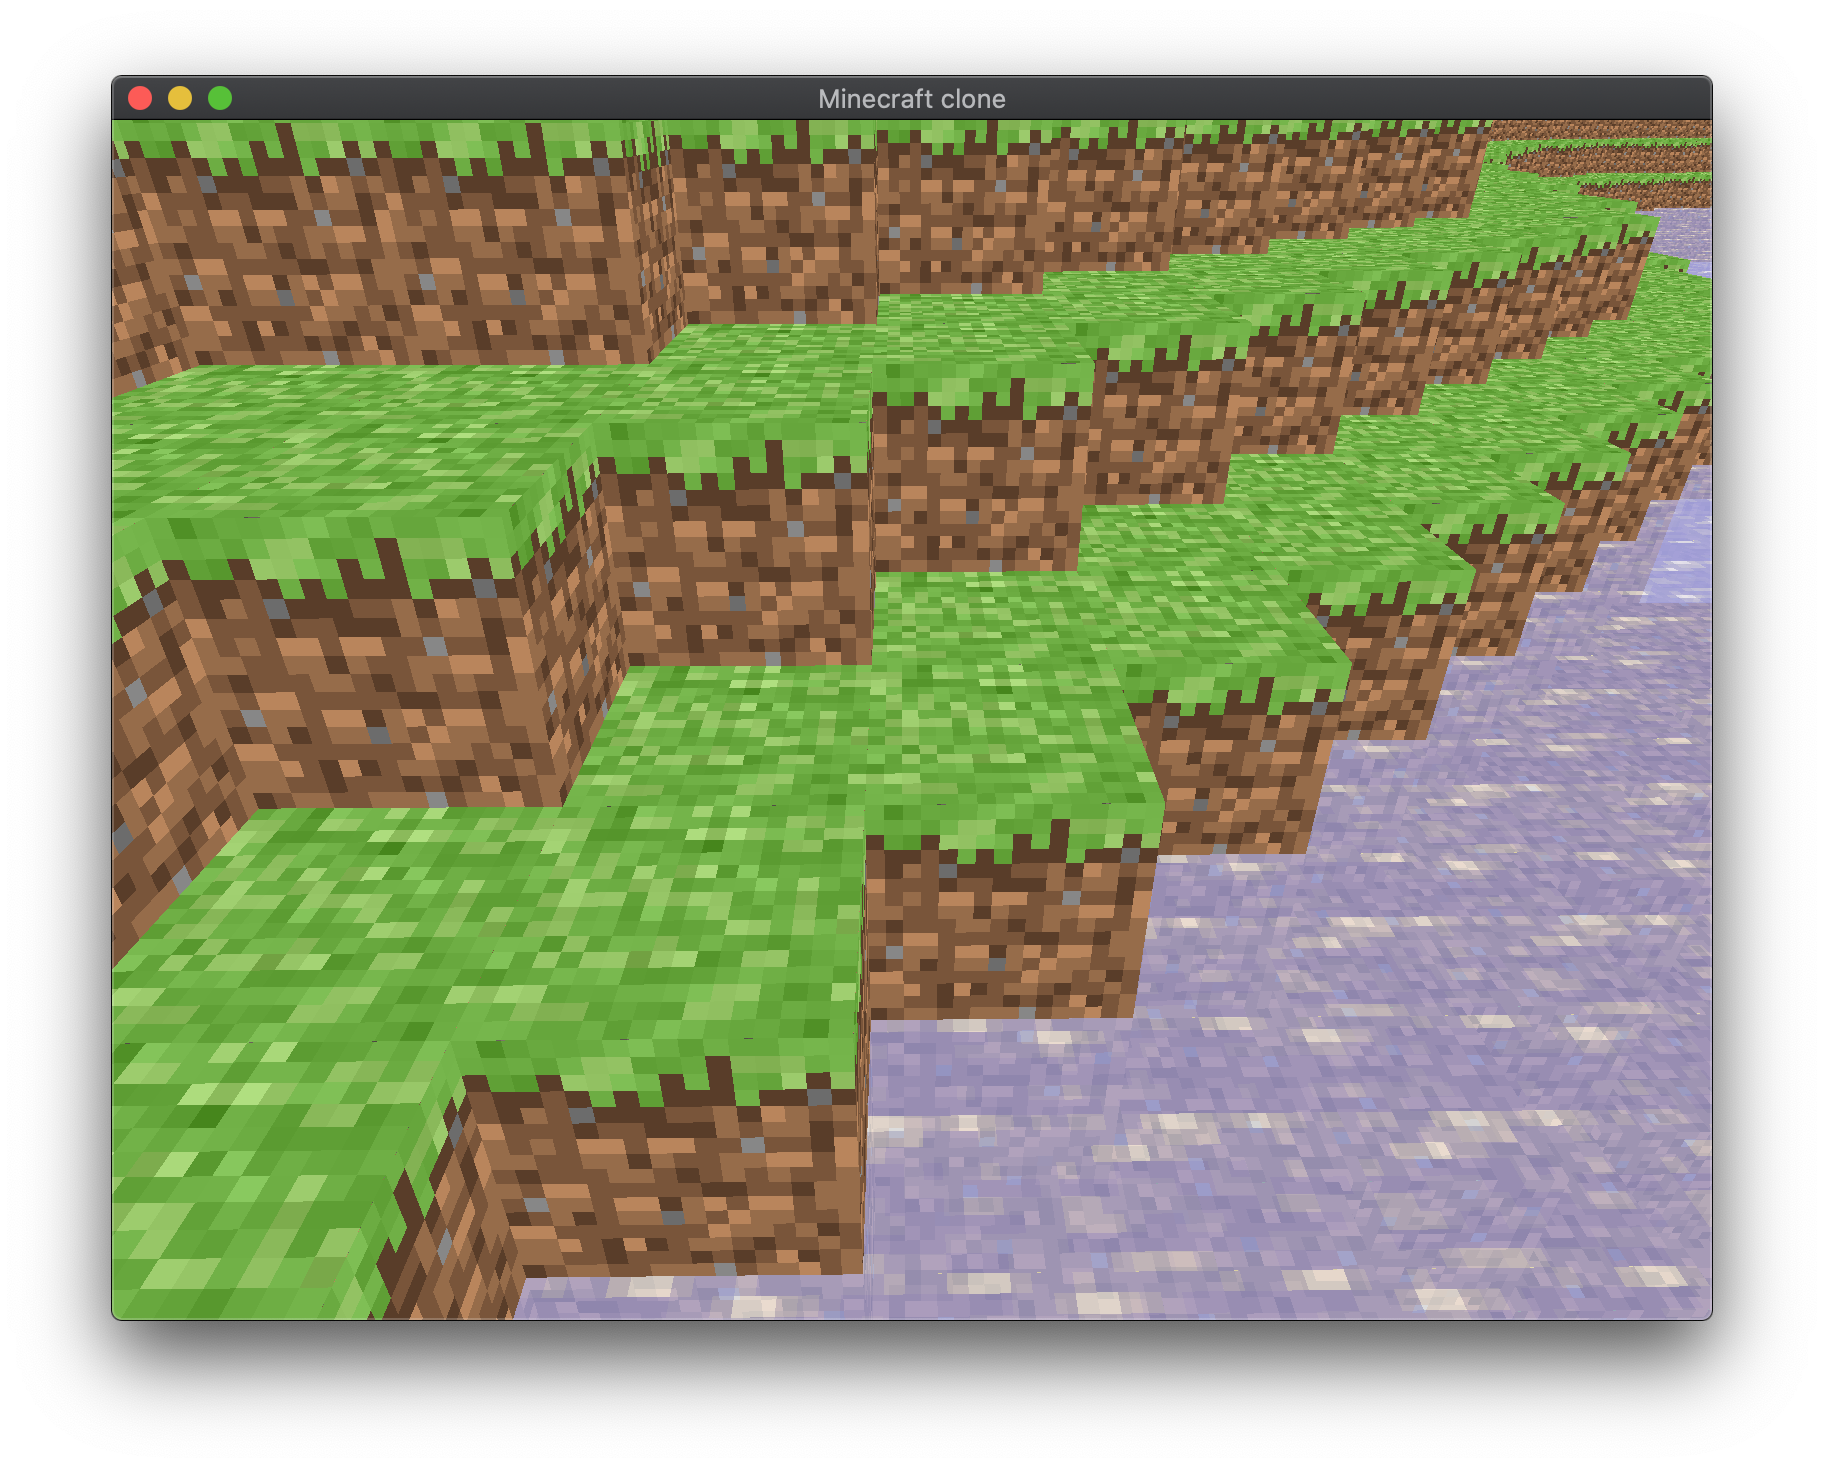
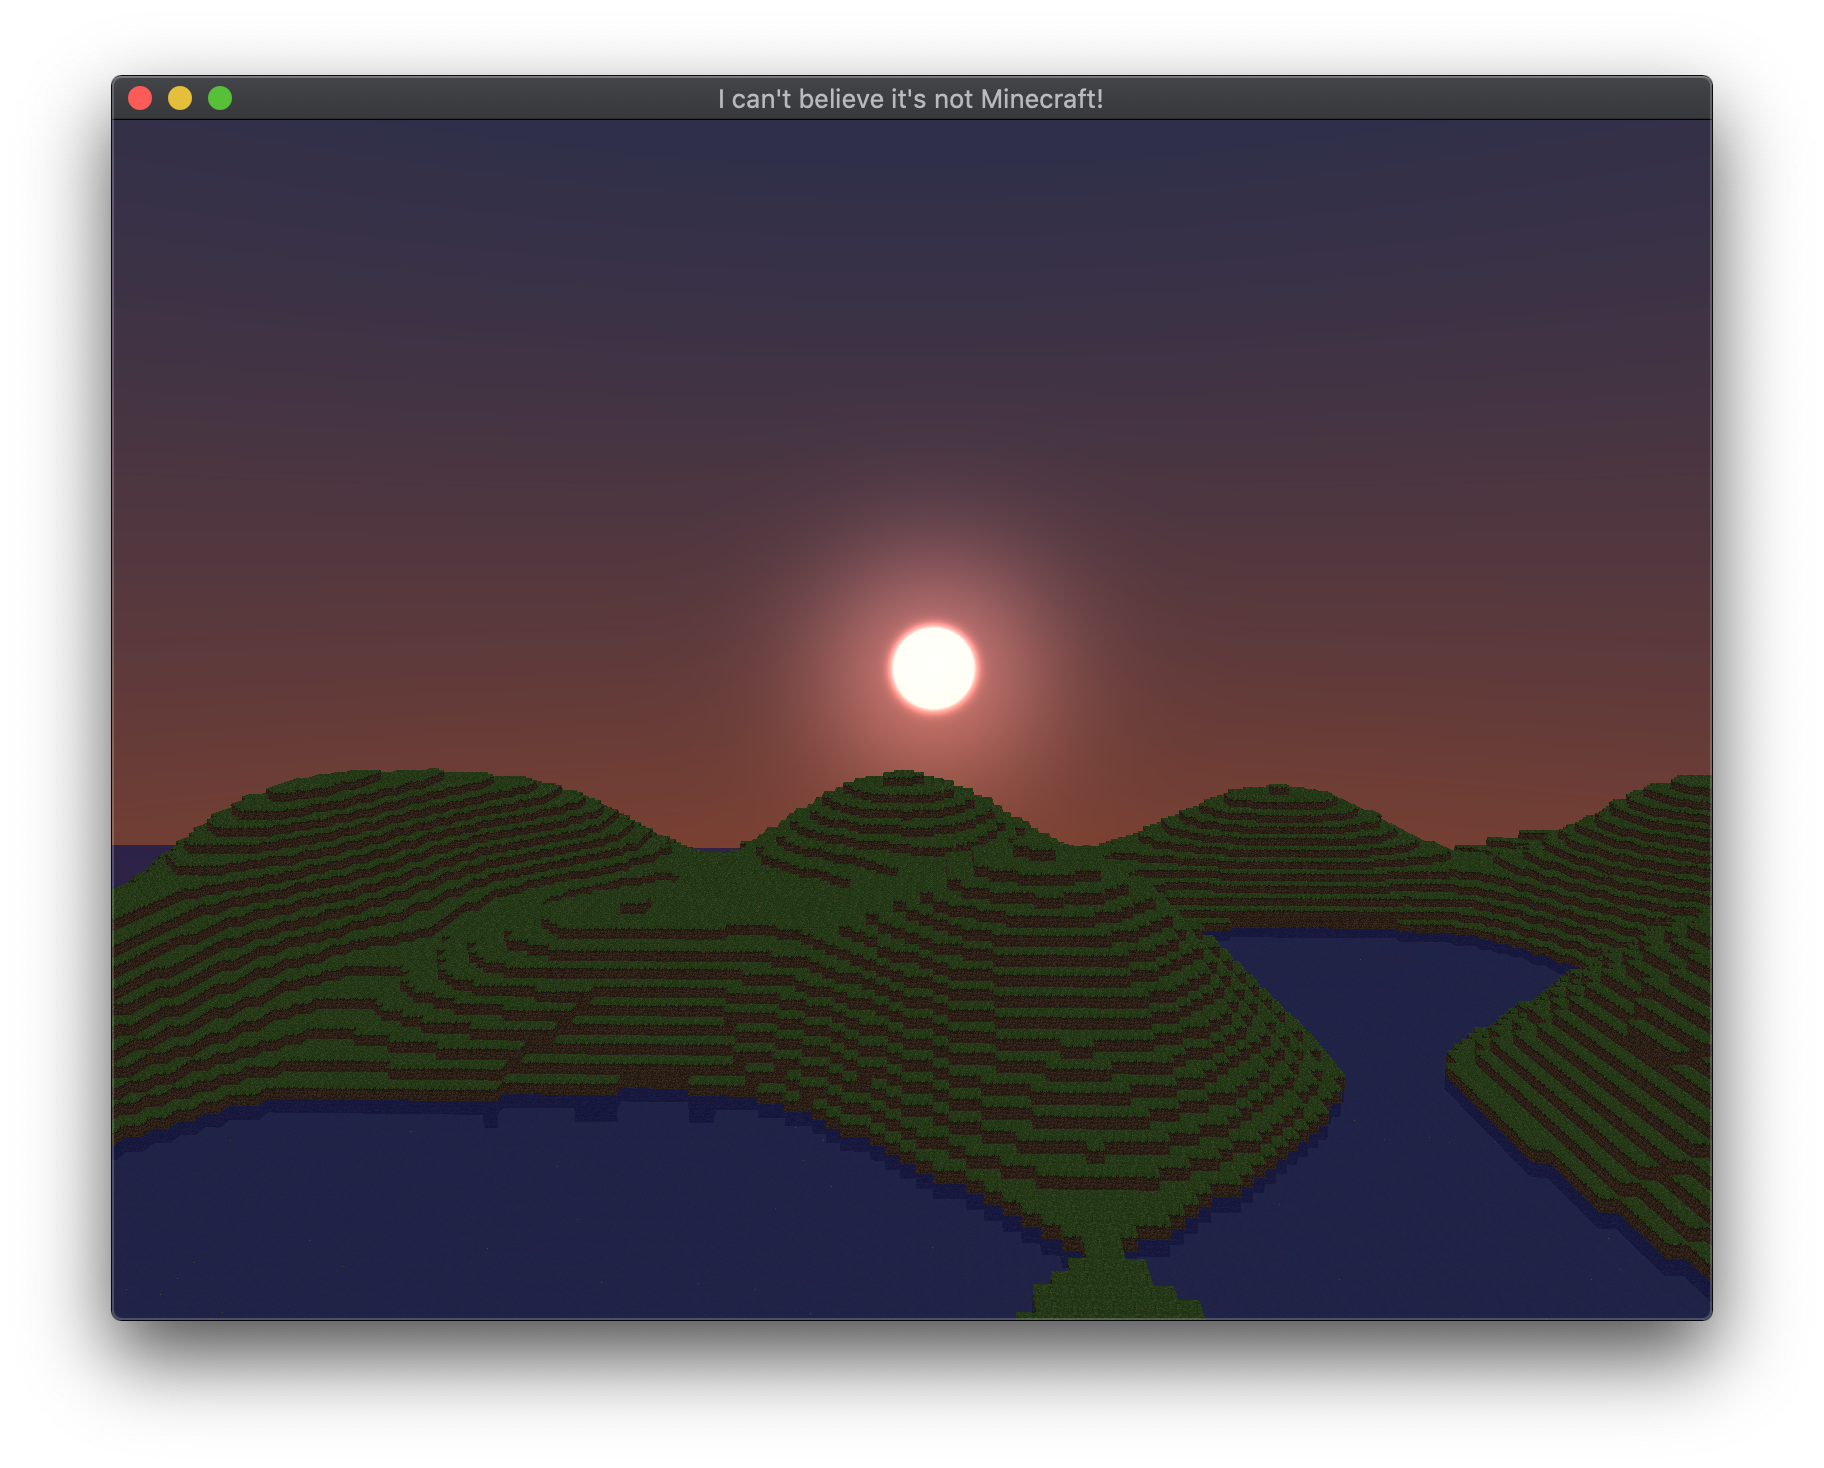
Day and night

diff --git a/src/world/block.cpp b/src/world/block.cpp
@@ -1,23 +1,36 @@
 #include "world/block.hpp"
+#include <utility>
 
 const bool Block::transparency_table[] = {false, false, false, false, false, true, true, false};
 
 Block::Block(Block::Type t) : type(t) {}
 
-std::vector<float> Block::getFace(Block::Face face) const {
+std::pair<std::vector<float>, std::vector<float>> Block::getFace(Block::Face face) const {
     switch (face) {
         case UP:
-            return std::vector<float>{0, 1, 0, 1, 1, 0, 1, 1, 1, 0, 1, 1};
+            return std::make_pair(
+                    std::vector<float>{0, 1, 0, 1, 1, 0, 1, 1, 1, 0, 1, 1},
+                    std::vector<float>{0, 1, 0, 0, 1, 0, 0, 1, 0, 0, 1, 0});
         case DOWN:
-            return std::vector<float>{0, 0, 1, 1, 0, 1, 1, 0, 0, 0, 0, 0};
+            return std::make_pair(
+                    std::vector<float>{0, 0, 1, 1, 0, 1, 1, 0, 0, 0, 0, 0},
+                    std::vector<float>{0, -1, 0, 0, -1, 0, 0, -1, 0, 0, -1, 0});
         case BACK:
-            return std::vector<float>{1, 0, 1, 0, 0, 1, 0, 1, 1, 1, 1, 1};
+            return std::make_pair(
+                    std::vector<float>{1, 0, 1, 0, 0, 1, 0, 1, 1, 1, 1, 1},
+                    std::vector<float>{0, 0, 1, 0, 0, 1, 0, 0, 1, 0, 0, 1});
         case FRONT:
-            return std::vector<float>{0, 0, 0, 1, 0, 0, 1, 1, 0, 0, 1, 0};
+            return std::make_pair(
+                    std::vector<float>{0, 0, 0, 1, 0, 0, 1, 1, 0, 0, 1, 0},
+                    std::vector<float>{0, 0, -1, 0, 0, -1, 0, 0, -1, 0, 0, -1});
         case RIGHT:
-            return std::vector<float>{1, 0, 0, 1, 0, 1, 1, 1, 1, 1, 1, 0};
+            return std::make_pair(
+                    std::vector<float>{1, 0, 0, 1, 0, 1, 1, 1, 1, 1, 1, 0},
+                    std::vector<float>{1, 0, 0, 1, 0, 0, 1, 0, 0, 1, 0, 0});
         case LEFT:
-            return std::vector<float>{0, 0, 1, 0, 0, 0, 0, 1, 0, 0, 1, 1};
+            return std::make_pair(
+                    std::vector<float>{0, 0, 1, 0, 0, 0, 0, 1, 0, 0, 1, 1},
+                    std::vector<float>{-1, 0, 0, -1, 0, 0, -1, 0, 0, -1, 0, 0});
         default:
             throw std::invalid_argument("Invalid block face!");
     }

diff --git a/src/rendering/mesh.cpp b/src/rendering/mesh.cpp
@@ -1,10 +1,12 @@
 #include "rendering/mesh.hpp"
 #include <algorithm>
 
-void QuadMesh::addQuad(const std::vector<float> &vs, Block::Type texId, Block::Face faceId) {
+void
+QuadMesh::addQuad(const std::vector<float> &vs, const std::vector<float> &ns, Block::Type texId, Block::Face faceId) {
     u_int offset = vertices.size() / 3;
 
     vertices.insert(vertices.end(), vs.cbegin(), vs.cend());
+    normals.insert(normals.end(), ns.cbegin(), ns.cend());
 
     for (u_int k : {0, 1, 2, 0, 2, 3}) {
         indices.push_back(k + offset);
@@ -27,6 +29,9 @@ void QuadMesh::operator+=(const QuadMesh &other) {
     // Copy vertices
     vertices.insert(vertices.end(), other.vertices.cbegin(), other.vertices.cend());
 
+    // Copy normals
+    normals.insert(normals.end(), other.normals.cbegin(), other.normals.cend());
+
     // Copy texture coordinates
     texCoords.insert(texCoords.end(), other.texCoords.cbegin(), other.texCoords.cend());
 
@@ -34,12 +39,6 @@ void QuadMesh::operator+=(const QuadMesh &other) {
                    [&offset](unsigned int ix) {
                        return ix + offset;
                    });
-}
-
-std::ostream &operator<<(std::ostream &out, const QuadMesh &mesh) {
-    out << "Quad Mesh with " << mesh.vertices.size() / 3 << " vertices, " << mesh.indices.size() << " indices and "
-        << mesh.texCoords.size() / 2 << " tex coords";
-    return out;
 }
 
 void InstanceMesh::addCube(float x, float y, float z, Block::Type texId, Block::Face faceId) {

diff --git a/src/world/chunk_sector.cpp b/src/world/chunk_sector.cpp
@@ -50,7 +50,8 @@ QuadMesh ChunkSector::getQuadMesh() const {
                     for (auto face = (Block::Face) 0; face < Block::FACES; face++) {
                         if (!faces[face] ||
                             (faces[face]->type != block->type && Block::transparency_table[faces[face]->type])) {
-                            std::vector<float> vectors = block->getFace(face);
+                            auto[vectors, normals] = block->getFace(face);
+
                             for (int j = 0; j <= 9; j += 3) {
                                 vectors[j] += static_cast<float>(x + x0);
                                 vectors[j + 1] += static_cast<float>(y);
@@ -58,9 +59,9 @@ QuadMesh ChunkSector::getQuadMesh() const {
                             }
 
                             if (Block::transparency_table[block->type]) {
-                                transparent.addQuad(vectors, block->type, face);
+                                transparent.addQuad(vectors, normals, block->type, face);
                             } else {
-                                opaque.addQuad(vectors, block->type, face);
+                                opaque.addQuad(vectors, normals, block->type, face);
                             }
                         }
                     }

diff --git a/src/views/renderers/QuadRenderer.cpp b/src/views/renderers/QuadRenderer.cpp
@@ -1,4 +1,3 @@
-#include <GLFW/glfw3.h>
 #include "utils/Log.hpp"
 #include "views/renderers/QuadRenderer.hpp"
 #include "models/Game.hpp"
@@ -14,7 +13,6 @@ QuadRenderer::QuadRenderer()
 
 void QuadRenderer::renderSync() {
     texture.use();
-
     glDrawElements(GL_TRIANGLES, bufferedElements, GL_UNSIGNED_INT, reinterpret_cast<GLvoid *>(0));
 }
 
@@ -26,6 +24,7 @@ void QuadRenderer::fillBuffersSync() {
     QuadMesh mesh = cs.getQuadMesh();
 
     vertices.fill(mesh.vertices);
+    normals.fill(mesh.normals);
     texCoords.fill(mesh.texCoords);
     indices.fill(mesh.indices);
 
@@ -34,6 +33,7 @@ void QuadRenderer::fillBuffersSync() {
 
 void QuadRenderer::bufferData() {
     vertices.bufferData();
+    normals.bufferData();
     texCoords.bufferData();
     indices.bufferData();
     bufferedElements = indices.size();

diff --git a/include/rendering/mesh.hpp b/include/rendering/mesh.hpp
@@ -5,14 +5,13 @@
 
 struct QuadMesh {
     std::vector<float> vertices;
+    std::vector<float> normals;
     std::vector<u_int> indices;
     std::vector<float> texCoords;
 
-    void addQuad(const std::vector<float> &vs, Block::Type texId, Block::Face faceId);
+    void addQuad(const std::vector<float> &vs, const std::vector<float> &ns, Block::Type texId, Block::Face faceId);
 
     void operator+=(const QuadMesh &other);
-
-    friend std::ostream &operator<<(std::ostream &out, const QuadMesh &mesh);
 };
 
 struct InstanceMesh {

diff --git a/src/views/renderers/Renderer.cpp b/src/views/renderers/Renderer.cpp
@@ -10,7 +10,7 @@ Renderer::Renderer(const std::string &vName, const std::string &fName)
 void Renderer::render() {
     program.use();
 
-    auto time = static_cast<float>(glfwGetTime()) / 50.0f;
+    auto time = static_cast<float>(glfwGetTime()) / 5.0f;
     program.setUniform("time", time);
     program.setUniform("playerMVP", Game::getInstance().player.getFPMatrix());
     program.setUniform("cameraPosition", Game::getInstance().player.position);

diff --git a/src/world/chunk.cpp b/src/world/chunk.cpp
@@ -41,7 +41,7 @@ void Chunk::generate(int seed) {
     static const int STONE_LEVEL = 40;
     static const int SEA_LEVEL = 64;
     static const int SEA_BOTTOM = 50;
-    static const int HILL_PEAKS = 100;
+    static const int HILL_PEAKS = 80;
 
     static const int noise_sd = (HILL_PEAKS - SEA_BOTTOM) / 2;
     static const int noise_mean = (HILL_PEAKS + SEA_BOTTOM) / 2;

diff --git a/src/main.cpp b/src/main.cpp
@@ -15,7 +15,7 @@ int main() {
     }
 
     windowView->addView(new RenderingView(new SkyBoxRenderer()));
-    windowView->addView(new RenderingView(new InstancingRenderer()));
+    windowView->addView(new RenderingView(new QuadRenderer()));
 
     MovementController controller(windowView->getWindow());
 

diff --git a/include/world/block.hpp b/include/world/block.hpp
@@ -34,7 +34,7 @@ public:
 
     explicit Block(Type);
 
-    [[nodiscard]] std::vector<float> getFace(Block::Face) const;
+    [[nodiscard]] std::pair<std::vector<float>, std::vector<float>> getFace(Block::Face) const;
 
     friend std::ostream &operator<<(std::ostream &, const Block &);
 };

diff --git a/include/views/renderers/QuadRenderer.hpp b/include/views/renderers/QuadRenderer.hpp
@@ -9,7 +9,8 @@ class QuadRenderer : public AsyncRenderer {
     Texture2D texture;
 
     VBO<float, 3> vertices{0};
-    VBO<float, 2> texCoords{1};
+    VBO<float, 3> normals{1};
+    VBO<float, 2> texCoords{2};
     EBO indices;
 
 public:

diff --git a/README.md b/README.md
@@ -4,7 +4,7 @@
 
 An attempt to recreate a subset of the popular game "Minecraft", delving deeper and deeper into OpenGL and modern C++ along the way.
 
-## Features done so far
+## What's working so far
 
 * A controllable free-floating camera
 * A quad tree for efficient querying of chunk info
@@ -14,7 +14,8 @@ An attempt to recreate a subset of the popular game "Minecraft", delving deeper 
 * Transparent and semi-transparent blocks (leaves, water)
 * Seeded terrain generation based on simplex noise
 * Two renderers - one based on glDrawElementArrays, and one based on instancing
-* Simple sky block and distance-based fog
+* Simple sky block
+* Day and night cycle with dynamic lighting during sunset and dusk
 
 ## Extra stuff
 * GitHub Actions pipeline for releases on Linux and MacOS (Windows in the future)
@@ -24,3 +25,4 @@ An attempt to recreate a subset of the popular game "Minecraft", delving deeper 
 
 ![A screenshot of the current state](docs/screenshot.png)
 ![A screenshot of the current state](docs/screenshot2.png)
+![A screenshot of the current state](docs/screenshot3.png)
